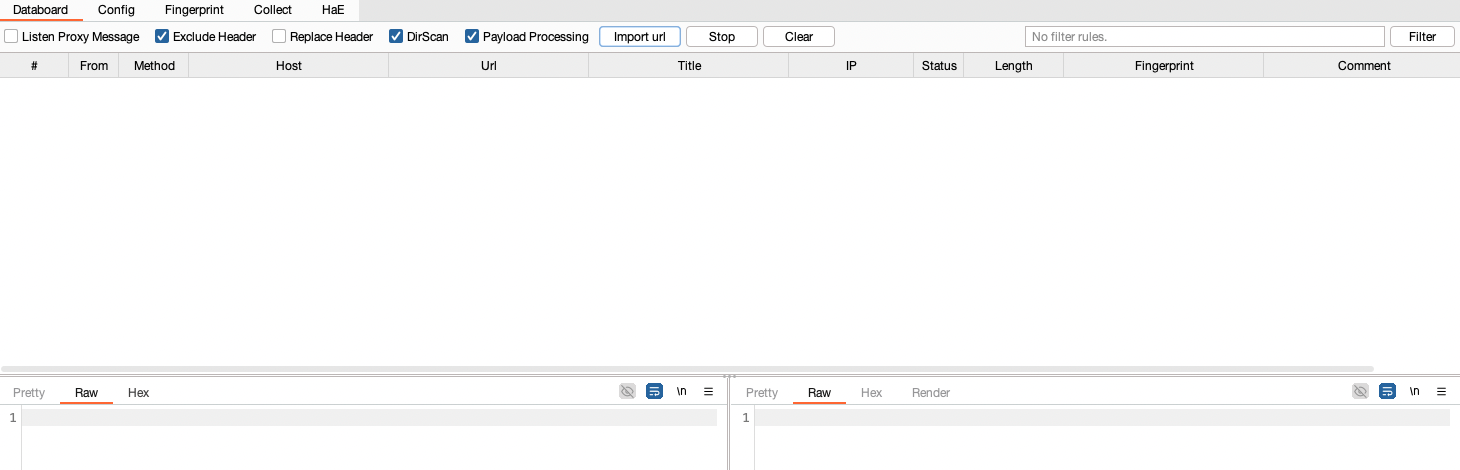
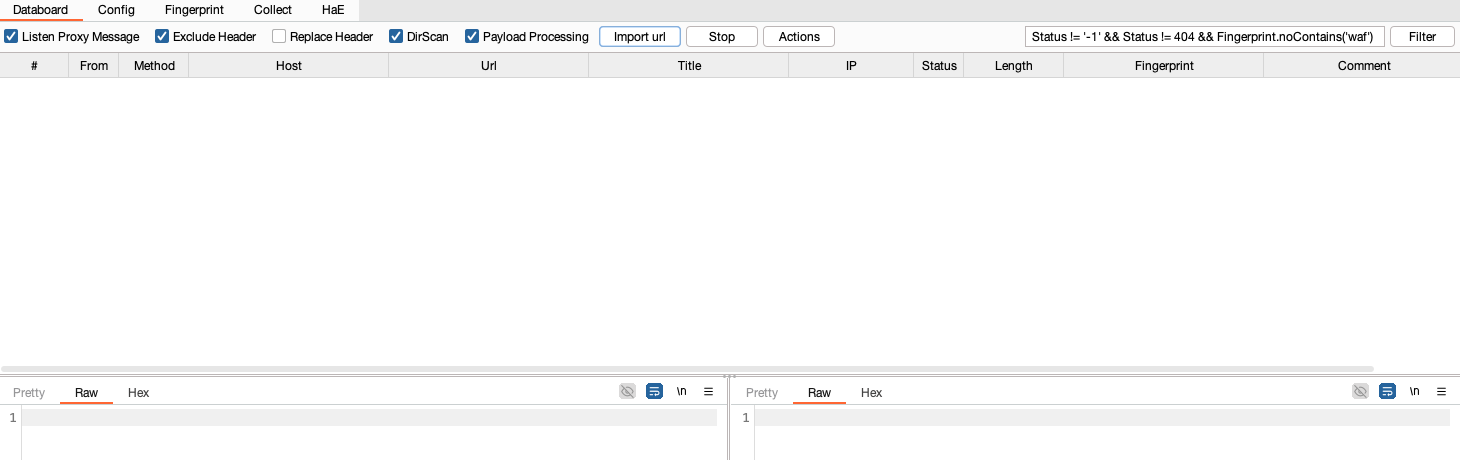
更新说明文档，更新插件截图

diff --git a/README.md b/README.md
@@ -120,7 +120,7 @@ C:\Users\<用户名>\.config\OneScan\
 - `Filter` 设置数据过滤规则
 - `Import url` 导入 Url 目标进行扫描
 - `Stop` 停止正在扫描的任务
-- `Clear` 清空所有记录（与菜单项 “清空所有记录” 功能一致，同时也会清空临时过滤规则）
+- `Actions` 操作菜单（列表鼠标右键菜单的所有功能）
 
 #### 过滤规则配置
 
@@ -146,8 +146,6 @@ C:\Users\<用户名>\.config\OneScan\
 ```text
 Status != 400 && Status != 503
 ```
-
-**注：** 在 “清空所有记录” 后，同时也会 “清空临时过滤规则”
 
 ### Config配置
 
@@ -265,7 +263,7 @@ Other配置界面如下
 
 ## 插件演示
 
-将如下数据包主动发送到OneScan：
+将如下数据包主动发送到 OneScan 插件扫描：
 
 ```text
 POST /mcp/pc/pcsearch HTTP/1.1
